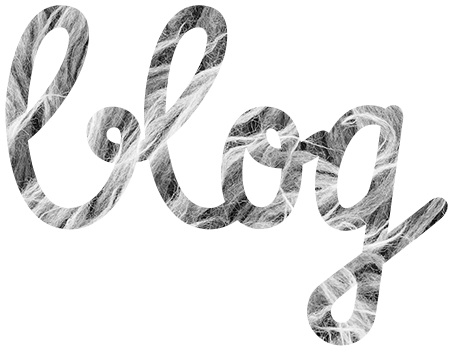
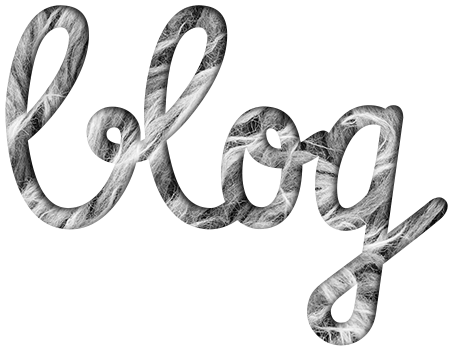
I updated the header of the apps' main templates (title images).
I also rearranged elements within the page for a better UX.

diff --git a/cart/templates/cart.html b/cart/templates/cart.html
@@ -1,11 +1,12 @@
 {% extends "base.html" %}
 {% load static %}
 {% block content %}
-<div class="jumbotron">
-    <h1 class="title"> Cart </h1>
-</div>
+
 <div class="container">
-    <div class="card-deck">
+    <div id="blog--title">
+        <img src="{% static 'img/cart_title.png' %}">
+    </div>
+    <div class="card-deck mt-3">
         {% for item in cart_items %}
         <div class="card">
             <img class="card-img-top" src="{{ MEDIA_URL }}{{ item.product.image }}" alt="Card image cap">
@@ -34,18 +35,23 @@
     <hr>
     <div class="container">
         <div class="row">
-            <div class="col-6">
-                <h5 class="card-title">Total</h5>
-                <p class="card-text"><i class="fas fa-receipt"></i>{{ total }}</p></div>
-            <div class="col-6">
+            <div class="col-sm-6">
+                <h5 class="card-title my-3">TOTAL <i class="fas fa-receipt"></i> {{ total }}</h5>
+               </div>
+            <div class="col-sm-3">
                 {% if user.is_authenticated %}
+                    {%  if product_count > 0 %}
                 <a href="{% url 'payment' %}"
                    class="btn btn-success" role="button"><i
                         class="far fa-credit-card"></i> Checkout</a>
+                        {% endif %}
                 {% else %}
-                <p><a href="{% url 'user_login' %}?next={{ request.get_full_path|urlencode }}">Login</a> to proceed with your payment.</p>
+                    <a href="{% url 'user_login' %}?next={{ request.get_full_path|urlencode }}"><span class="fancyfont">Login</span></a> to proceed with your payment.
                 {% endif %}
             </div>
+        <div class="col-sm-3">
+            <a href="{% url 'products' %}" class="btn btn-dark my-3">Continue Shopping</a>
+        </div>
         </div>
     </div>
 </div>

diff --git a/products/templates/products.html b/products/templates/products.html
@@ -2,8 +2,10 @@
 {% load static %}
 {% block content %}
 
-    <h1 class="title"> Product page </h1>
-<div class="container">
+    <div id="blog--title">
+    <img src="{% static 'img/shop_title.png' %}" >
+</div>
+<div class="container mt-4">
     <div class="jumbotron">
     <h1 class="title"> Choose your subscription type below! </h1>
     <div class="container">
@@ -45,9 +47,17 @@
     </div>
   </div>
         {% endfor %}
+
   </div>
+<hr>
+<div class="row my-4">
+    <div class="col">
+             <a href="{% url 'view_cart' %}" class="btn btn-warning">
+                        <i class="fas fa-shopping-cart"></i> View your Cart</a>
+    </div>
+</div>
 </div>
 
-</div>
+
 
 {% endblock %}

diff --git a/payment/templates/payment.html b/payment/templates/payment.html
@@ -13,7 +13,10 @@
 
 {% block content %}
 <div class="container">
-    <div class="card-deck">
+    <div id="blog--title">
+    <img src="{% static 'img/checkout_title.png' %}" >
+</div>
+    <div class="card-deck mt-4">
         {% for item in cart_items %}
         <div class="card bg-light">
             <div class="card-body">
